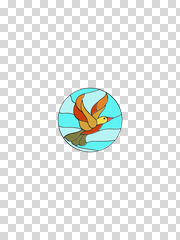
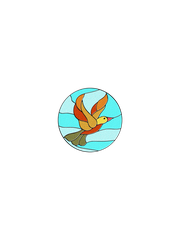
fix(thumbnails): preserve alpha transparency for web catalog while keeping baked checkerboard for plugin

diff --git a/tools/build_thumbnails.py b/tools/build_thumbnails.py
@@ -58,18 +58,33 @@ def has_alpha_channel(im):
     return False
 
 
-def render_thumbnail(im, is_transparent=False):
-    """Resizes and composites an image to standard 180x240 preserving full RGB color."""
+def render_thumbnail(im, is_transparent=False, bake_checkerboard=False):
+    """Resizes an image to standard 180x240 preserving full RGB/RGBA color.
+    If bake_checkerboard=True, alpha is composited over an e-ink checkerboard (for plugin).
+    If bake_checkerboard=False, alpha channel is preserved intact (for web catalog).
+    """
     actual_trans = is_transparent or has_alpha_channel(im)
     if actual_trans and has_alpha_channel(im):
         im_rgba = im.convert("RGBA")
-        # Fit inside 180x240 with aspect ratio preserved
-        im_rgba.thumbnail((TARGET_W, TARGET_H), Image.Resampling.LANCZOS)
-        bg = make_checkerboard(TARGET_W, TARGET_H)
-        x = (TARGET_W - im_rgba.width) // 2
-        y = (TARGET_H - im_rgba.height) // 2
-        bg.paste(im_rgba, (x, y), im_rgba)
-        return bg, True
+        if bake_checkerboard:
+            im_rgba.thumbnail((TARGET_W, TARGET_H), Image.Resampling.LANCZOS)
+            bg = make_checkerboard(TARGET_W, TARGET_H)
+            x = (TARGET_W - im_rgba.width) // 2
+            y = (TARGET_H - im_rgba.height) // 2
+            bg.paste(im_rgba, (x, y), im_rgba)
+            return bg, True
+        else:
+            # Preserve transparent alpha channel for web catalog
+            if abs((im_rgba.width / im_rgba.height) - (TARGET_W / TARGET_H)) < 0.02:
+                resized = im_rgba.resize((TARGET_W, TARGET_H), Image.Resampling.LANCZOS)
+                return resized, True
+            else:
+                im_rgba.thumbnail((TARGET_W, TARGET_H), Image.Resampling.LANCZOS)
+                canvas = Image.new("RGBA", (TARGET_W, TARGET_H), (0, 0, 0, 0))
+                x = (TARGET_W - im_rgba.width) // 2
+                y = (TARGET_H - im_rgba.height) // 2
+                canvas.paste(im_rgba, (x, y))
+                return canvas, True
     else:
         im_rgb = im.convert("RGB")
         # Direct resize if aspect ratio already matches 3:4 portrait (within 2%)
@@ -98,10 +113,10 @@ def save_thumbnail(thumb_img, dest_path):
     os.rename(tmp_path, dest_path)
 
 
-def process_single_image(src_path, dest_path, is_transparent=False):
+def process_single_image(src_path, dest_path, is_transparent=False, bake_checkerboard=False):
     try:
         with Image.open(src_path) as im:
-            thumb_img, _ = render_thumbnail(im, is_transparent)
+            thumb_img, _ = render_thumbnail(im, is_transparent, bake_checkerboard=bake_checkerboard)
             save_thumbnail(thumb_img, dest_path)
         return True, None
     except Exception as e:
@@ -151,13 +166,13 @@ def process_native_screensavers(force=False, limit=None):
     success = 0
     errors = 0
     for src_path, target_thumb, is_trans, item_id in candidates:
-        ok, err = process_single_image(src_path, target_thumb, is_trans)
+        ok, err = process_single_image(src_path, target_thumb, is_trans, bake_checkerboard=False)
         if ok:
             success += 1
             if is_trans or target_thumb.endswith(".png"):
                 # Also generate plugin checkerboard thumbnail
                 plugin_dest = os.path.join(PLUGIN_THUMBS_DIR, f"{item_id}.png")
-                process_single_image(src_path, plugin_dest, is_transparent=True)
+                process_single_image(src_path, plugin_dest, is_transparent=True, bake_checkerboard=True)
         else:
             errors += 1
             print(f"[-] Error processing {src_path}: {err}")
